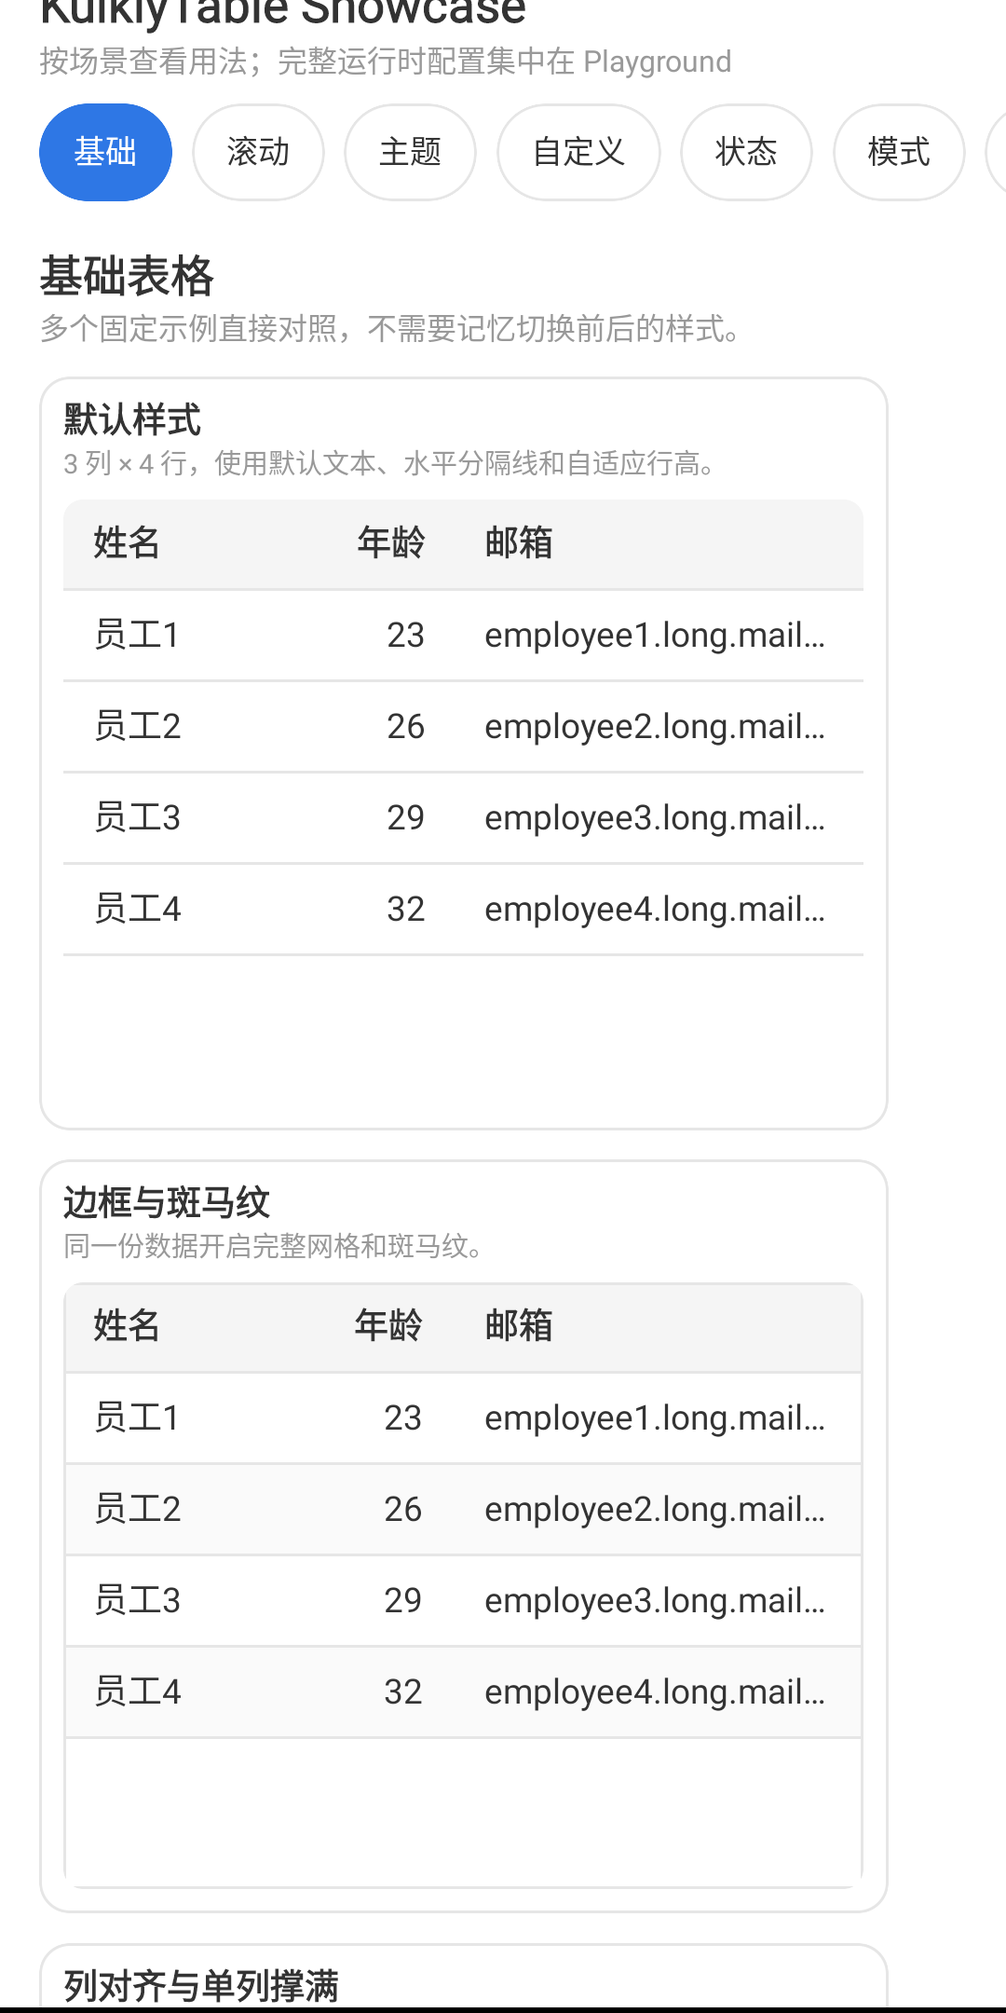
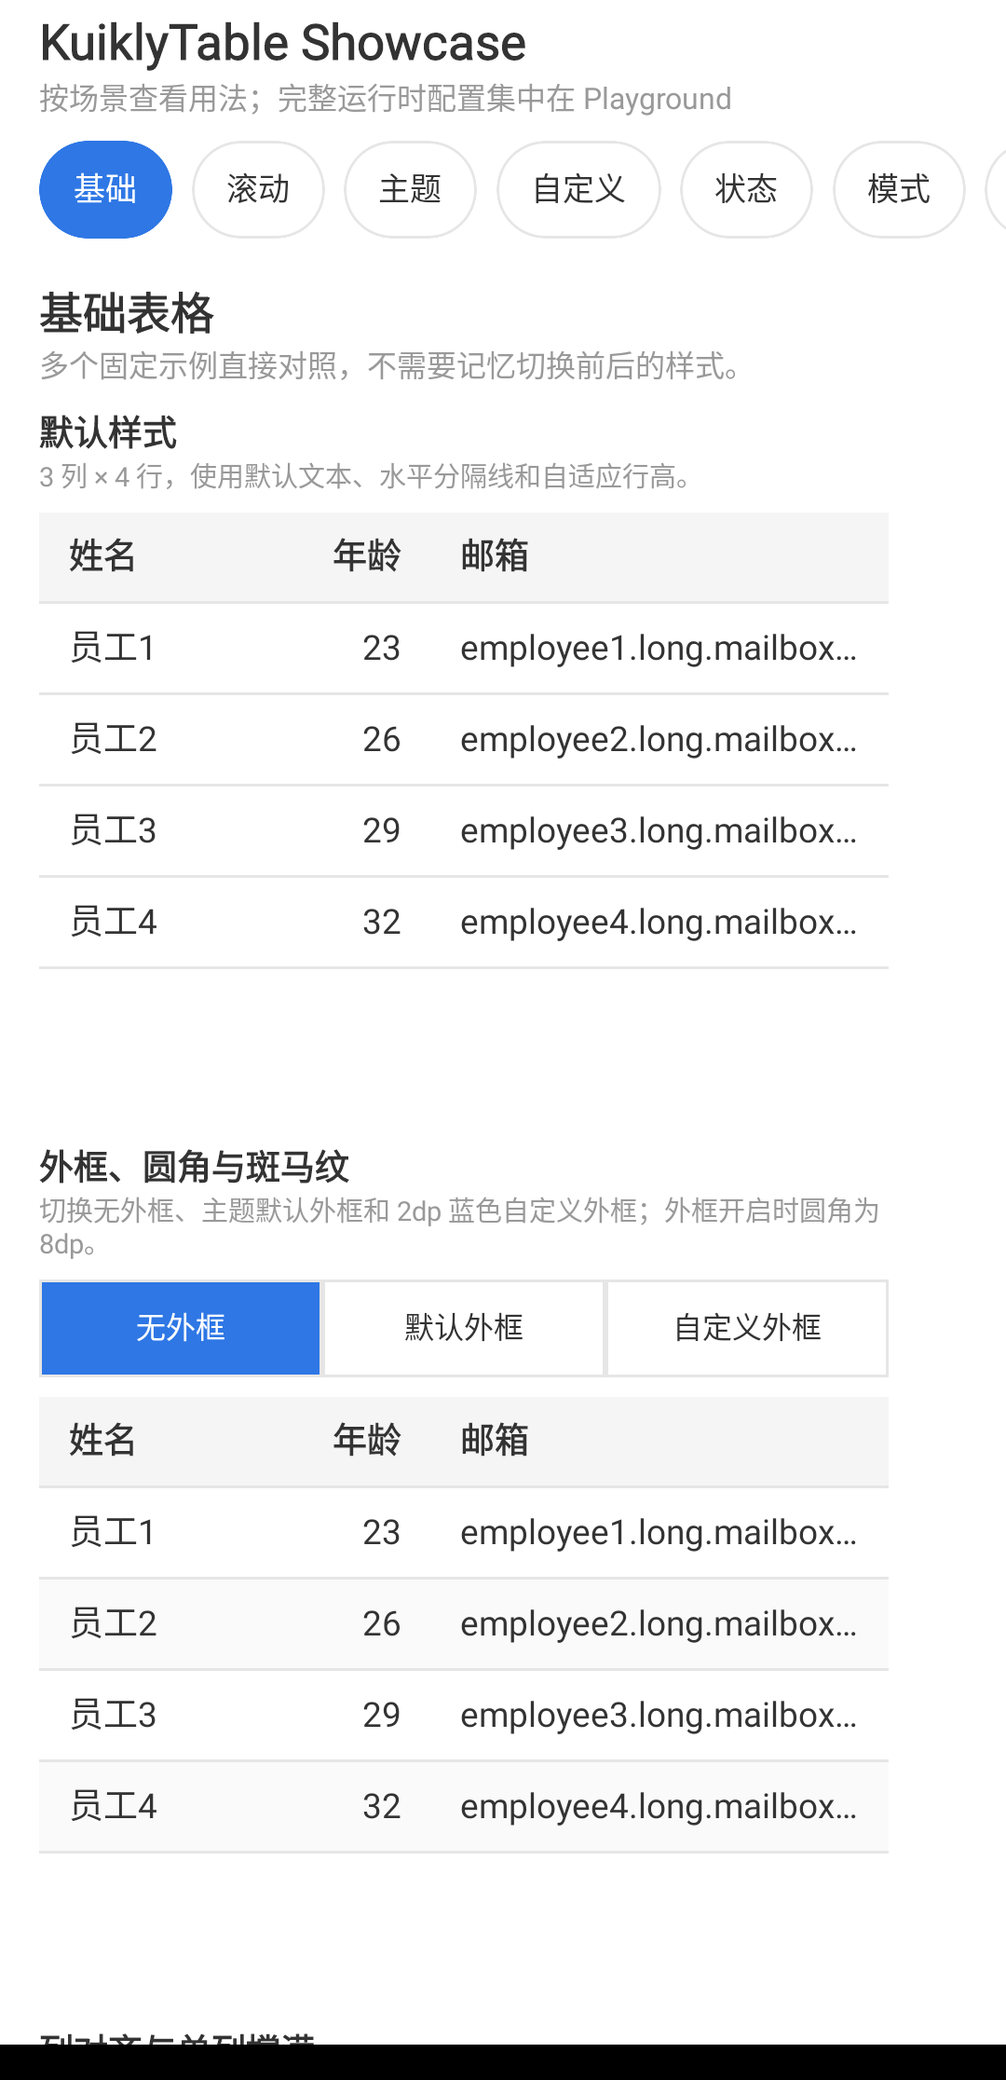
feat(table): 完善外框与圆角配置

diff --git a/shared/src/commonMain/kotlin/com/arialentropy/kuiklytable/TableBasicDemoPage.kt b/shared/src/commonMain/kotlin/com/arialentropy/kuiklytable/TableBasicDemoPage.kt
@@ -266,7 +266,7 @@ internal class TableBasicDemoPage : BasePager() {
     private var activeColumns: ObservableList<ColumnModel<User>> by observableList()
     private var selectedColumn by observable<ColumnModel<User>>(ageColumn)
     private var zebraOn by observable(true)             // 斑马纹
-    private var borderedOn by observable(false)         // 列边框
+    private var tableBorderMode: TableBorderMode by observable(TableBorderMode.None)
     private var compactPadding by observable(false)     // 紧凑内边距
     private var fixedRowHeight by observable(false)     // 固定行高
     private var fixedHeaderOn by observable(true)
@@ -460,8 +460,14 @@ internal class TableBasicDemoPage : BasePager() {
                         ToggleChip(label = { "斑马纹 ${if (ctx.zebraOn) "开" else "关"}" }, active = { ctx.zebraOn }, theme = { ctx.currentTheme() }) {
                             ctx.zebraOn = !ctx.zebraOn
                         }
-                        ToggleChip(label = { "网格边框 ${if (ctx.borderedOn) "开" else "关"}" }, active = { ctx.borderedOn }, theme = { ctx.currentTheme() }) {
-                            ctx.borderedOn = !ctx.borderedOn
+                        listOf("无外框", "默认外框", "自定义外框").forEach { mode ->
+                            ToggleChip(label = { mode }, active = { ctx.tableBorderModeLabel() == mode }, theme = { ctx.currentTheme() }) {
+                                ctx.tableBorderMode = when (mode) {
+                                    "默认外框" -> TableBorderMode.Default
+                                    "自定义外框" -> TableBorderMode.Custom(0xFF2E77E5, 2f)
+                                    else -> TableBorderMode.None
+                                }
+                            }
                         }
                         ToggleChip(label = { "表头 ${if (ctx.compactHeader) "紧凑" else "标准"}" }, active = { ctx.compactHeader }, theme = { ctx.currentTheme() }) {
                             ctx.compactHeader = !ctx.compactHeader
@@ -495,7 +501,8 @@ internal class TableBasicDemoPage : BasePager() {
                         columns = ctx.activeColumns
                         rowKey = { user -> user.id }
                         zebraStripe = ctx.zebraOn
-                        bordered = ctx.borderedOn
+                        borderMode = ctx.tableBorderMode
+                        cornerRadius = if (ctx.tableBorderMode is TableBorderMode.None) 0f else 8f
                         cellPaddingH = if (ctx.compactPadding) 8f else 12f
                         cellPaddingV = if (ctx.compactPadding) 6f else 10f
                         rowHeight = if (ctx.fixedRowHeight) 48f else 0f
@@ -648,8 +655,20 @@ internal class TableBasicDemoPage : BasePager() {
             ExampleCard("默认样式", "3 列 × 4 行，使用默认文本、水平分隔线和自适应行高。", { ctx.currentTheme() }) {
                 ctx.renderTablePreview(this, ctx.basicColumns, ctx.users.take(4), height = 248f, zebra = false, theme = ctx.currentTheme())
             }
-            ExampleCard("边框与斑马纹", "同一份数据开启完整网格和斑马纹。", { ctx.currentTheme() }) {
-                ctx.renderTablePreview(this, ctx.basicColumns, ctx.users.take(4), height = 248f, bordered = true, zebra = true, theme = ctx.currentTheme())
+            ExampleCard("外框、圆角与斑马纹", "切换无外框、主题默认外框和 2dp 蓝色自定义外框；外框开启时圆角为 8dp。", { ctx.currentTheme() }) {
+                View {
+                    attr { flexDirectionRow(); marginBottom(8f) }
+                    listOf("无外框", "默认外框", "自定义外框").forEach { mode ->
+                        SegmentOption(mode, active = { ctx.tableBorderModeLabel() == mode }, theme = { ctx.currentTheme() }) {
+                            ctx.tableBorderMode = when (mode) {
+                                "默认外框" -> TableBorderMode.Default
+                                "自定义外框" -> TableBorderMode.Custom(0xFF2E77E5, 2f)
+                                else -> TableBorderMode.None
+                            }
+                        }
+                    }
+                }
+                ctx.renderTablePreview(this, ctx.basicColumns, ctx.users.take(4), height = 248f, borderMode = ctx.tableBorderMode, zebra = true, theme = ctx.currentTheme())
             }
             ExampleCard("列对齐与单列撑满", "该列配置 width=180，但作为唯一列时会使用 Table 全宽；选择对齐方式观察实时变化。", { ctx.currentTheme() }) {
                 View {
@@ -670,7 +689,7 @@ internal class TableBasicDemoPage : BasePager() {
                         }
                     }
                 }
-                ctx.renderTablePreview(this, listOf(ctx.alignmentColumn), ctx.users.take(3), height = 210f, bordered = true, zebra = false, theme = ctx.currentTheme())
+                ctx.renderTablePreview(this, listOf(ctx.alignmentColumn), ctx.users.take(3), height = 210f, borderMode = TableBorderMode.Default, zebra = false, theme = ctx.currentTheme())
             }
             ExampleCard("普通列与排序列", "姓名是普通列；点击年龄表头依次切换未排序、升序、降序。当前：${ctx.sortingDemoDescription()}", { ctx.currentTheme() }) {
                 ctx.renderTablePreview(
@@ -709,22 +728,20 @@ internal class TableBasicDemoPage : BasePager() {
                     ctx.scrollDemoTable?.scrollToTop(animated = true)
                 }
             }
-            View {
-                attr { flex(1f); borderRadius(12f); overflow(true); border(Border(1f, BorderStyle.SOLID, Color(ctx.currentTheme().cardBorder))) }
-                ctx.renderTablePreview(
-                    this,
-                    listOf(ctx.nameColumn, ctx.ageColumn, ctx.wideEmailColumn, ctx.cityColumn, ctx.statusTextColumn),
-                    ctx.users.take(ctx.scrollDemoLimit),
-                    height = null,
-                    fixedHeader = ctx.fixedHeaderOn,
-                    fixedRowHeight = true,
-                    theme = ctx.currentTheme(),
-                    hasMore = ctx.scrollDemoLimit < ctx.users.size,
-                    loadingMore = ctx.scrollDemoLoadingMore,
-                    onLoadMore = { ctx.loadMoreScrollRows() },
-                    tableRef = { ctx.scrollDemoTable = it },
-                )
-            }
+            ctx.renderTablePreview(
+                container,
+                listOf(ctx.nameColumn, ctx.ageColumn, ctx.wideEmailColumn, ctx.cityColumn, ctx.statusTextColumn),
+                ctx.users.take(ctx.scrollDemoLimit),
+                height = null,
+                borderMode = TableBorderMode.Default,
+                fixedHeader = ctx.fixedHeaderOn,
+                fixedRowHeight = true,
+                theme = ctx.currentTheme(),
+                hasMore = ctx.scrollDemoLimit < ctx.users.size,
+                loadingMore = ctx.scrollDemoLoadingMore,
+                onLoadMore = { ctx.loadMoreScrollRows() },
+                tableRef = { ctx.scrollDemoTable = it },
+            )
         }
     }
 
@@ -784,17 +801,14 @@ internal class TableBasicDemoPage : BasePager() {
                     }
                 }
             }
-            View {
-                attr { flex(1f); borderRadius(12f); overflow(true); border(Border(1f, BorderStyle.SOLID, Color(ctx.currentTheme().cardBorder))) }
-                vif({ ctx.tableState == "正常" }) {
-                    ctx.renderTablePreview(this, ctx.columns3, ctx.users.take(6), null, theme = ctx.currentTheme())
-                }
-                vif({ ctx.tableState == "加载" }) {
-                    ctx.renderTablePreview(this, ctx.columns3, ctx.users.take(6), null, loading = true, theme = ctx.currentTheme(), customStateRenderer = ctx.customStateRendererOn)
-                }
-                vif({ ctx.tableState == "空" }) {
-                    ctx.renderTablePreview(this, ctx.columns3, emptyList(), null, theme = ctx.currentTheme(), customStateRenderer = ctx.customStateRendererOn)
-                }
+            vif({ ctx.tableState == "正常" }) {
+                ctx.renderTablePreview(container, ctx.columns3, ctx.users.take(6), null, theme = ctx.currentTheme())
+            }
+            vif({ ctx.tableState == "加载" }) {
+                ctx.renderTablePreview(container, ctx.columns3, ctx.users.take(6), null, loading = true, theme = ctx.currentTheme(), customStateRenderer = ctx.customStateRendererOn)
+            }
+            vif({ ctx.tableState == "空" }) {
+                ctx.renderTablePreview(container, ctx.columns3, emptyList(), null, theme = ctx.currentTheme(), customStateRenderer = ctx.customStateRendererOn)
             }
         }
     }
@@ -847,7 +861,9 @@ internal class TableBasicDemoPage : BasePager() {
                 }
                 ConfigGroup("外观", theme = { ctx.currentTheme() }) {
                     SettingSwitch("斑马纹", "交替显示行背景", ctx.zebraOn, { ctx.currentTheme() }) { ctx.zebraOn = it }
-                    SettingSwitch("完整网格", "显示外框和竖向分隔线", ctx.borderedOn, { ctx.currentTheme() }) { ctx.borderedOn = it }
+                    SettingSwitch("默认外框", "使用主题色显示外框和竖向分隔线", ctx.tableBorderMode is TableBorderMode.Default, { ctx.currentTheme() }) {
+                        ctx.tableBorderMode = if (it) TableBorderMode.Default else TableBorderMode.None
+                    }
                     SettingSwitch("固定 48dp 行高", "关闭后由内容和内边距决定", ctx.fixedRowHeight, { ctx.currentTheme() }) { ctx.fixedRowHeight = it }
                     SettingSwitch("紧凑内边距", "减小单元格水平和垂直留白", ctx.compactPadding, { ctx.currentTheme() }) { ctx.compactPadding = it }
                 }
@@ -861,10 +877,7 @@ internal class TableBasicDemoPage : BasePager() {
                     }
                 }
             }
-            View {
-                attr { flex(1f); marginLeft(16f); marginRight(16f); marginBottom(16f); borderRadius(12f); overflow(true); border(Border(1f, BorderStyle.SOLID, Color(ctx.currentTheme().cardBorder))) }
-                ctx.renderTablePreview(this, ctx.activeColumns, ctx.users, null, ctx.borderedOn, ctx.zebraOn, ctx.fixedRowHeight, ctx.fixedHeaderOn, ctx.currentTheme(), TableDisplayMode.Table, false, ctx.overflowTipOn)
-            }
+            ctx.renderTablePreview(container, ctx.activeColumns, ctx.users, null, ctx.tableBorderMode, ctx.zebraOn, ctx.fixedRowHeight, ctx.fixedHeaderOn, ctx.currentTheme(), TableDisplayMode.Table, false, ctx.overflowTipOn)
         }
     }
 
@@ -873,7 +886,7 @@ internal class TableBasicDemoPage : BasePager() {
         columns: List<ColumnModel<User>>,
         data: List<User>,
         height: Float?,
-        bordered: Boolean = false,
+        borderMode: TableBorderMode = TableBorderMode.None,
         zebra: Boolean = true,
         fixedRowHeight: Boolean = false,
         fixedHeader: Boolean = true,
@@ -894,12 +907,14 @@ internal class TableBasicDemoPage : BasePager() {
             tableRef?.invoke(this)
             attr {
                 flex(1f)
+                tableWidth = null
                 if (height == null) flex(1f) else height(height)
                 this.columns.addAll(columns)
                 this.data = data
                 rowKey = { user -> user.id }
                 zebraStripe = zebra
-                this.bordered = bordered
+                this.borderMode = borderMode
+                cornerRadius = if (borderMode is TableBorderMode.None) 0f else 8f
                 cellPaddingH = if (ctx.compactPadding) 8f else 12f
                 cellPaddingV = if (ctx.compactPadding) 6f else 10f
                 rowHeight = if (fixedRowHeight) 48f else 0f
@@ -1037,6 +1052,12 @@ internal class TableBasicDemoPage : BasePager() {
         is DemoThemeMode.Light -> TableThemeColors.Light
     }
 
+    private fun tableBorderModeLabel(): String = when (tableBorderMode) {
+        is TableBorderMode.None -> "无外框"
+        is TableBorderMode.Default -> "默认外框"
+        is TableBorderMode.Custom -> "自定义外框"
+    }
+
     private fun sortDescription(): String = when (sortState.direction) {
         is TableSortDirection.None -> "未排序"
         is TableSortDirection.Ascending -> "${sortColumnTitle()}升序"
@@ -1067,7 +1088,7 @@ internal class TableBasicDemoPage : BasePager() {
             themeMode = DemoThemeMode.Blue
         }
         if (example == "基础样式") {
-            borderedOn = true
+            tableBorderMode = TableBorderMode.Default
         }
         selectedColumn = ageColumn
         syncActiveColumns()
@@ -1259,13 +1280,7 @@ private fun ViewContainer<*, *>.ExampleCard(
     content: ViewBuilder,
 ) {
     View {
-        attr {
-            backgroundColor(Color(theme().cardBackground))
-            borderRadius(12f)
-            border(Border(1f, BorderStyle.SOLID, Color(theme().cardBorder)))
-            padding(10f)
-            marginBottom(12f)
-        }
+        attr { marginBottom(12f) }
         Text {
             attr {
                 text(title)
@@ -1284,7 +1299,7 @@ private fun ViewContainer<*, *>.ExampleCard(
             }
         }
         View {
-            attr { flex(1f); alignSelfStretch(); borderRadius(8f); overflow(true) }
+            attr { flex(1f); alignSelfStretch() }
             content()
         }
     }

diff --git a/KuiklyTable/src/commonMain/kotlin/com/arialentropy/kuiklytable/TableView.kt b/KuiklyTable/src/commonMain/kotlin/com/arialentropy/kuiklytable/TableView.kt
@@ -72,6 +72,8 @@ class TableView<T> : ComposeView<TableAttr<T>, TableEvent<T>>() {
                     tableAttr.tableWidth?.let { width(it) } ?: alignSelfStretch()
                     positionRelative()
                     overflow(true)
+                    tableAttr.cornerRadius.takeIf { it > 0f }?.let { borderRadius(it) }
+                    tableAttr.borderMode.borderSpec(tableAttr.themeColors)?.let { border(it) }
                     backgroundColor(Color(tableAttr.themeColors.rowBackground))
                 }
 
@@ -118,9 +120,6 @@ class TableView<T> : ComposeView<TableAttr<T>, TableEvent<T>>() {
             attr {
                 flex(1f)
                 positionRelative()
-                if (tableAttr.bordered) {
-                    border(Border(1f, BorderStyle.SOLID, Color(tableAttr.themeColors.gridLine)))
-                }
             }
             Scroller {
                 attr {
@@ -189,7 +188,7 @@ class TableView<T> : ComposeView<TableAttr<T>, TableEvent<T>>() {
         target.columns = columns
         target.sortState = attr.sortState
         target.indexColumnTitle = attr.indexColumnTitle
-        target.bordered = attr.bordered
+        target.borderMode = attr.borderMode
         target.themeColors = attr.themeColors
         target.headerStyle = attr.headerStyle
     }
@@ -319,7 +318,7 @@ class TableView<T> : ComposeView<TableAttr<T>, TableEvent<T>>() {
                     columns = visibleColumns
                     rowHeight = ctx.effectiveRowHeight()
                     zebraStripe = ctx.attr.zebraStripe
-                    bordered = ctx.attr.bordered
+                    borderMode = ctx.attr.borderMode
                     cellPaddingH = ctx.attr.cellPaddingH
                     cellPaddingV = ctx.attr.cellPaddingV
                     themeColors = ctx.attr.themeColors

diff --git a/KuiklyTable/src/commonMain/kotlin/com/arialentropy/kuiklytable/TableRowView.kt b/KuiklyTable/src/commonMain/kotlin/com/arialentropy/kuiklytable/TableRowView.kt
@@ -59,7 +59,7 @@ internal class TableRowView<T> : ComposeView<TableRowAttr<T>, TableRowEvent<T>>(
             }
             View {
                 attr {
-                    width(if (ctx.attr.bordered && !isLastColumn) 1f else 0f)
+                    width(if (ctx.attr.borderMode.hasVisibleLines() && !isLastColumn) 1f else 0f)
                     backgroundColor(Color(ctx.attr.themeColors.gridLine))
                 }
             }
@@ -129,7 +129,7 @@ internal class TableRowView<T> : ComposeView<TableRowAttr<T>, TableRowEvent<T>>(
             }
             View {
                 attr {
-                    width(if (ctx.attr.bordered && !isLastColumn) 1f else 0f)
+                    width(if (ctx.attr.borderMode.hasVisibleLines() && !isLastColumn) 1f else 0f)
                     backgroundColor(Color(ctx.attr.themeColors.gridLine))
                 }
             }
@@ -186,7 +186,7 @@ internal class TableRowAttr<T> : ComposeAttr() {
     var columns: List<TableResolvedColumn<T>> by observable(emptyList())
     var rowHeight: Float by observable(0f)
     var zebraStripe: Boolean by observable(true)
-    var bordered: Boolean by observable(false)
+    var borderMode: TableBorderMode by observable(TableBorderMode.None)
     var cellPaddingH: Float by observable(12f)
     var cellPaddingV: Float by observable(10f)
     var themeColors: TableThemeColors by observable(TableThemeColors())

diff --git a/KuiklyTable/src/commonMain/kotlin/com/arialentropy/kuiklytable/TableHeaderRowView.kt b/KuiklyTable/src/commonMain/kotlin/com/arialentropy/kuiklytable/TableHeaderRowView.kt
@@ -81,7 +81,7 @@ internal class TableHeaderRowView<T> : ComposeView<TableHeaderRowAttr<T>, TableH
                     }
                     View {
                         attr {
-                            width(if (ctx.attr.bordered && !isLastColumn) 1f else 0f)
+                            width(if (ctx.attr.borderMode.hasVisibleLines() && !isLastColumn) 1f else 0f)
                             backgroundColor(Color(ctx.attr.themeColors.gridLine))
                         }
                     }
@@ -105,7 +105,7 @@ internal class TableHeaderRowAttr<T> : ComposeAttr() {
     var columns: List<TableResolvedColumn<T>> by observable(emptyList())
     var sortState: TableSortState by observable(TableSortState())
     var indexColumnTitle: String by observable("序号")
-    var bordered: Boolean by observable(false)
+    var borderMode: TableBorderMode by observable(TableBorderMode.None)
     var themeColors: TableThemeColors by observable(TableThemeColors())
     var headerStyle: TableHeaderStyle by observable(TableHeaderStyle.Default)
 }

diff --git a/KuiklyTable/src/commonMain/kotlin/com/arialentropy/kuiklytable/TableBorderExtensions.kt b/KuiklyTable/src/commonMain/kotlin/com/arialentropy/kuiklytable/TableBorderExtensions.kt
@@ -1,0 +1,13 @@
+package com.arialentropy.kuiklytable
+
+import com.tencent.kuikly.core.base.Border
+import com.tencent.kuikly.core.base.BorderStyle
+import com.tencent.kuikly.core.base.Color
+
+internal fun TableBorderMode.hasVisibleLines(): Boolean = this !is TableBorderMode.None
+
+internal fun TableBorderMode.borderSpec(themeColors: TableThemeColors): Border? = when (this) {
+    is TableBorderMode.None -> null
+    is TableBorderMode.Default -> Border(1f, BorderStyle.SOLID, Color(themeColors.gridLine))
+    is TableBorderMode.Custom -> Border(width.coerceAtLeast(0f), BorderStyle.SOLID, Color(color))
+}

diff --git a/KuiklyTable/src/commonMain/kotlin/com/arialentropy/kuiklytable/TableConfig.kt b/KuiklyTable/src/commonMain/kotlin/com/arialentropy/kuiklytable/TableConfig.kt
@@ -24,7 +24,10 @@ class TableAttr<T> : ComposeAttr() {
      */
     var rowKey: ((T) -> Any)? by observable(null)
     var zebraStripe: Boolean by observable(true)
-    var bordered: Boolean by observable(false)
+    /** Table 根容器外框；Default 使用 [themeColors.gridLine]。 */
+    var borderMode: TableBorderMode by observable(TableBorderMode.None)
+    /** Table 根容器圆角，单位为 dp。 */
+    var cornerRadius: Float by observable(0f)
     var cellPaddingH: Float by observable(12f)
     var cellPaddingV: Float by observable(10f)
     var rowHeight: Float by observable(0f)

diff --git a/KuiklyTable/src/commonMain/kotlin/com/arialentropy/kuiklytable/TableBorder.kt b/KuiklyTable/src/commonMain/kotlin/com/arialentropy/kuiklytable/TableBorder.kt
@@ -1,0 +1,16 @@
+package com.arialentropy.kuiklytable
+
+/** Table 根容器外框配置。 */
+sealed class TableBorderMode {
+    /** 不绘制外框，也不绘制列间竖线。 */
+    object None : TableBorderMode()
+
+    /** 使用当前主题的 [TableThemeColors.gridLine] 绘制 1dp 外框。 */
+    object Default : TableBorderMode()
+
+    /** 使用调用方指定的颜色和宽度绘制外框。 */
+    class Custom(
+        val color: Long,
+        val width: Float = 1f,
+    ) : TableBorderMode()
+}

diff --git a/KuiklyTable/src/commonTest/kotlin/com/arialentropy/kuiklytable/TableBorderTest.kt b/KuiklyTable/src/commonTest/kotlin/com/arialentropy/kuiklytable/TableBorderTest.kt
@@ -1,0 +1,18 @@
+package com.arialentropy.kuiklytable
+
+import kotlin.test.Test
+import kotlin.test.assertFalse
+import kotlin.test.assertTrue
+
+class TableBorderTest {
+    @Test
+    fun none_hides_outer_and_column_lines() {
+        assertFalse(TableBorderMode.None.hasVisibleLines())
+    }
+
+    @Test
+    fun default_and_custom_show_column_lines() {
+        assertTrue(TableBorderMode.Default.hasVisibleLines())
+        assertTrue(TableBorderMode.Custom(0xFF123456).hasVisibleLines())
+    }
+}
